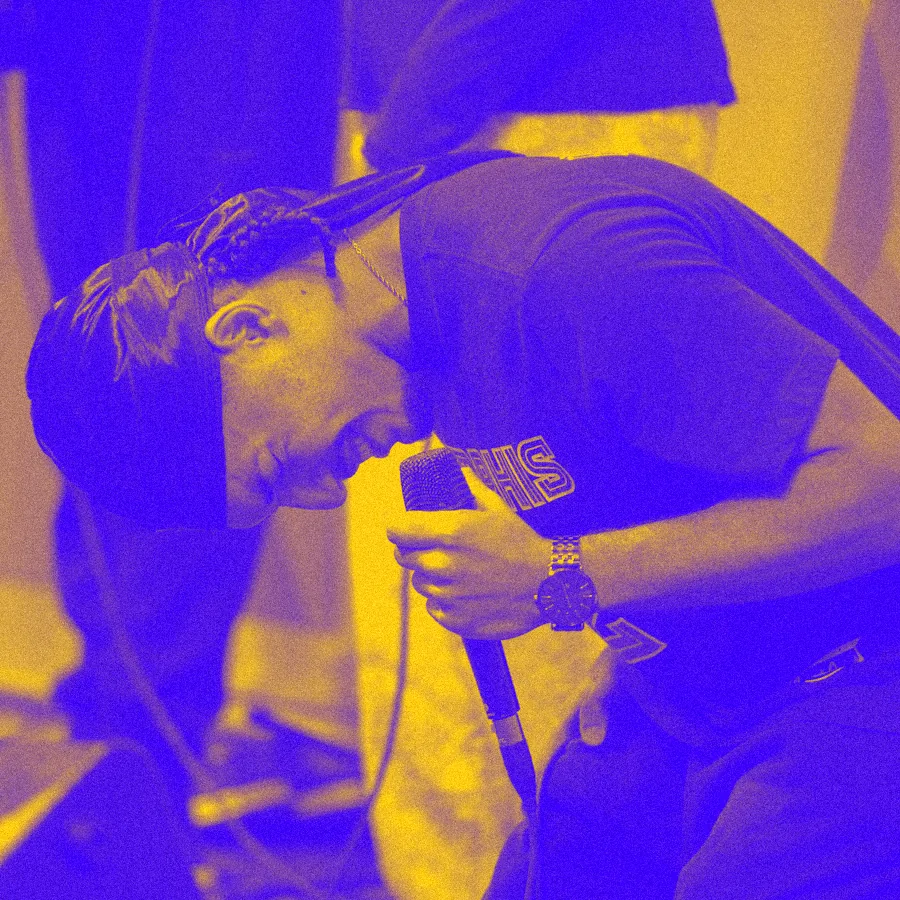
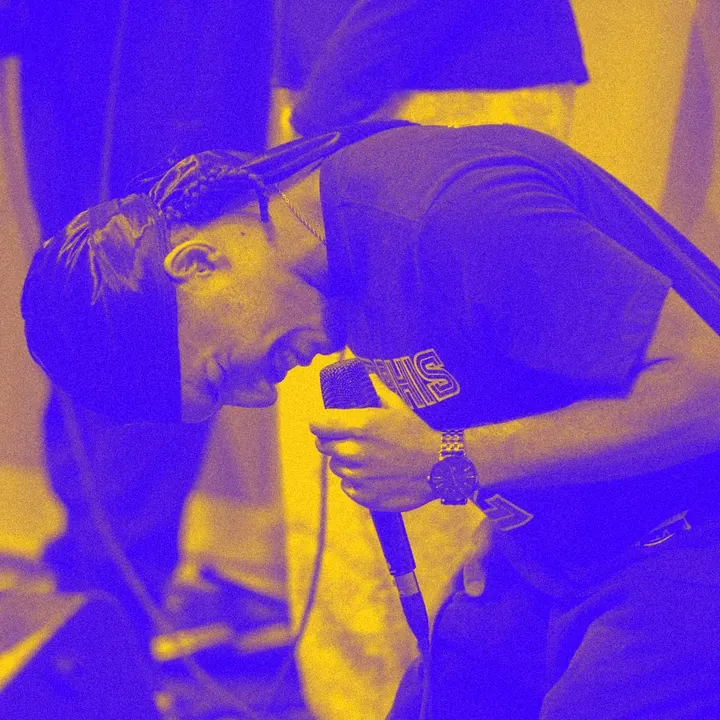
esteira: +9 fotos do último acampamento (15 no total), imagens reduzidas a 720 px
Claude-Session: https://claude.ai/code/session_01D79EBmLxYdWHEzkrpjMZb3

diff --git a/site/data/fotos.ts b/site/data/fotos.ts
@@ -4,10 +4,19 @@
 export type Foto = { src: string; alt: string };
 
 export const FOTOS: Foto[] = [
+  { src: "/esteira/f7.webp", alt: "Foto de todo o grupo do acampamento, com os braços para o alto, em frente aos chalés" },
   { src: "/esteira/f1.webp", alt: "Jovem tocando bateria ao lado da fogueira, à noite" },
+  { src: "/esteira/f8.webp", alt: "Três amigos sentados num banco à noite, sorrindo para a foto" },
   { src: "/esteira/f2.webp", alt: "Jovem com os braços erguidos durante o louvor" },
+  { src: "/esteira/f10.webp", alt: "Sete amigas fantasiadas, abraçadas e sorrindo" },
   { src: "/esteira/f3.webp", alt: "Jovem cantando de joelhos, com o microfone na mão" },
+  { src: "/esteira/f13.webp", alt: "Jovem tocando violão, curvado sobre o instrumento" },
   { src: "/esteira/f4.webp", alt: "Adolescente de óculos, de olhos fechados, em momento de oração" },
+  { src: "/esteira/f14.webp", alt: "Grupo de jovens se divertindo no salão" },
   { src: "/esteira/f5.webp", alt: "Jovem ajoelhado com a cabeça no chão, em oração" },
+  { src: "/esteira/f12.webp", alt: "Dois amigos ao lado da bateria, um abraçando o outro" },
   { src: "/esteira/f6.webp", alt: "Jovem de boné com os braços para o alto, cantando" },
+  { src: "/esteira/f15.webp", alt: "Jovens abraçados em oração ao redor da fogueira" },
+  { src: "/esteira/f11.webp", alt: "Jovem ajoelhado, de cabeça baixa, em oração" },
+  { src: "/esteira/f9.webp", alt: "Jovens dançando e se divertindo na noite de fantasias" },
 ];

diff --git a/docs/LICENCAS.md b/docs/LICENCAS.md
@@ -14,6 +14,6 @@
 | Fotos dos demais pregadores (futuras) | liderança | autorização de imagem a confirmar | uma linha por foto quando entrarem |
 | `site/public/lideres/fred-gabi.webp` (foto de Fred e Gabriela) | enviada pelo responsável em 21/10/2026 | uso de imagem autorizado pelos retratados (são a própria liderança) | recorte quadrado e duotom azul→amarelo aplicados no projeto |
 | `site/public/lideres/paulo-tania.webp` (foto de Paulo e Tânia) | enviada pelo responsável em 21/10/2026 | uso de imagem autorizado pelos retratados (são a própria liderança) | recorte quadrado e duotom azul→amarelo aplicados no projeto |
-| `site/public/esteira/f1.webp` a `f6.webp` (6 fotos do último acampamento, maio/2026) | enviadas pelo responsável em 25/10/2026 | uso de imagem aprovado pelo responsável; autorização dos responsáveis pelos menores a confirmar | recorte quadrado, duotom azul→amarelo e grão aplicados no projeto |
+| `site/public/esteira/f1.webp` a `f15.webp` (15 fotos do último acampamento, maio/2026) | enviadas pelo responsável em 25/10 e 28/10/2026 | uso de imagem aprovado pelo responsável; autorização dos responsáveis pelos menores a confirmar | recorte quadrado, duotom azul→amarelo e grão aplicados no projeto |
 
 Sem componentes de Spell UI, Cult UI, React Bits, Componentry, 21st.dev, Uiverse ou GSAP. Nenhuma foto de banco.
